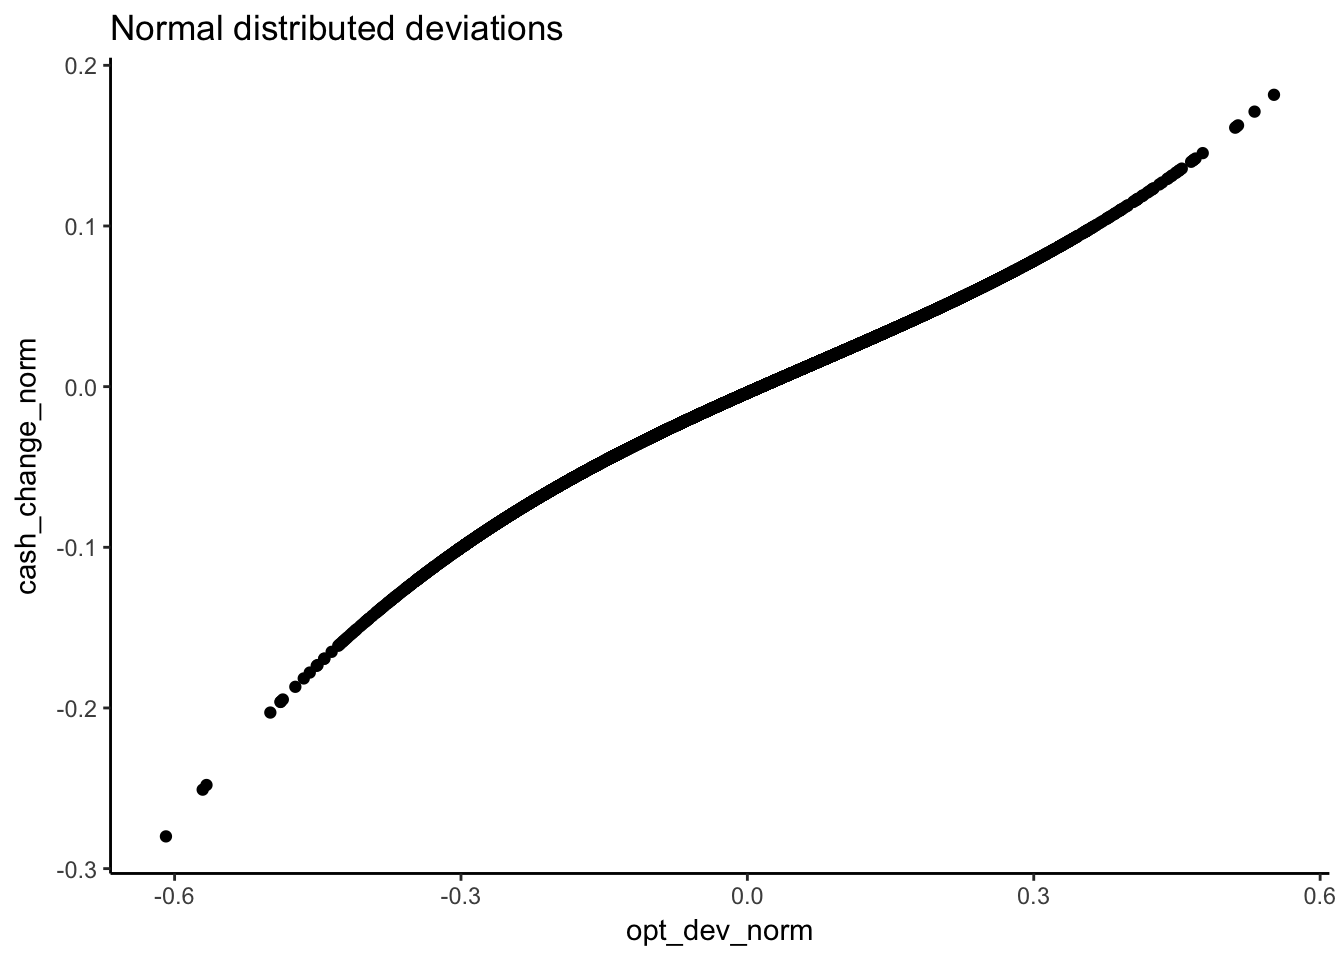
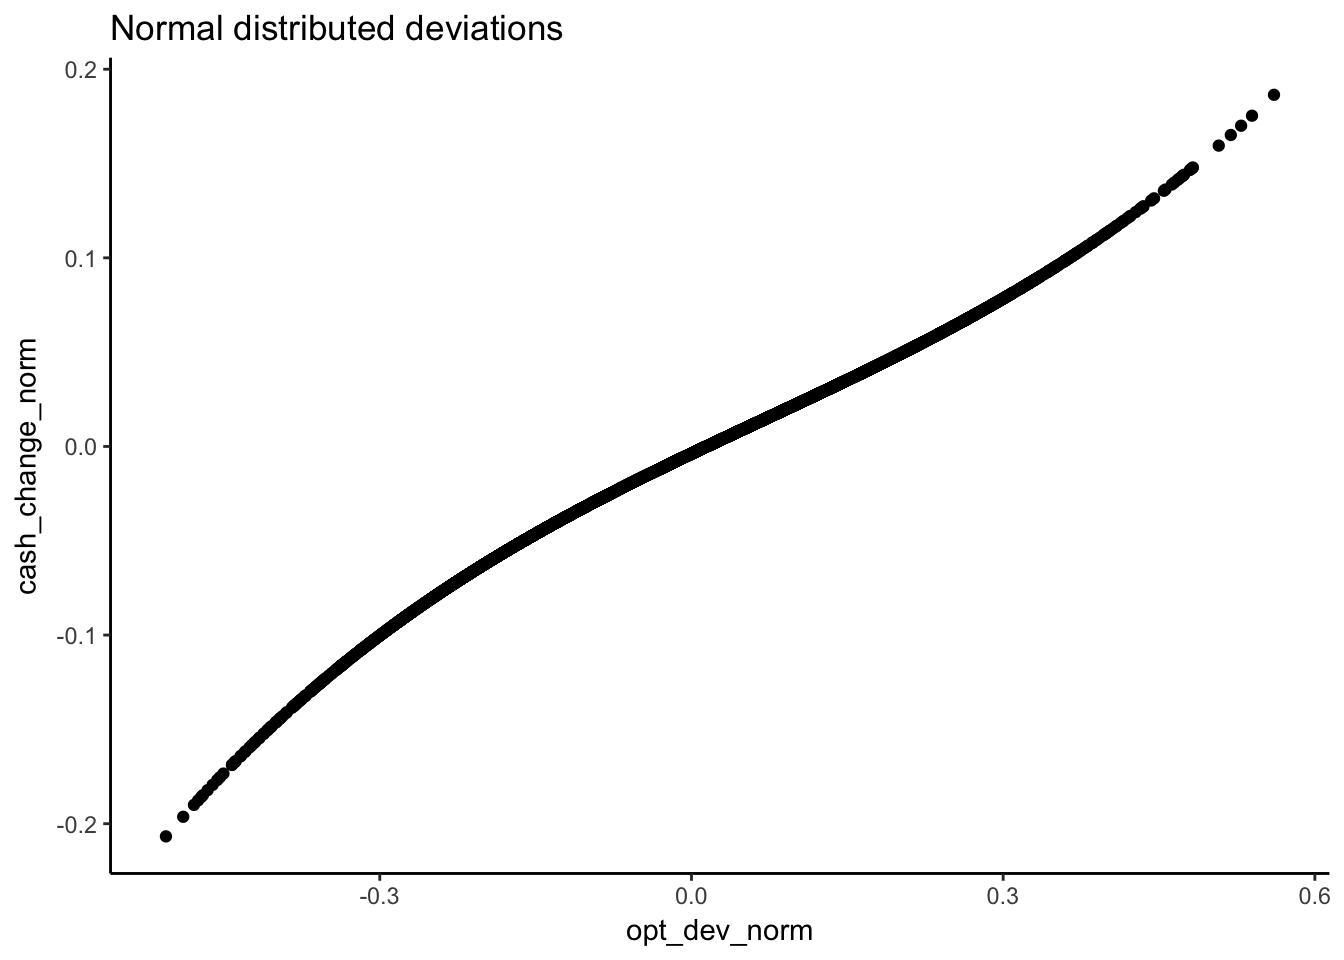
change in t-distribution to get sd approximately right.

diff --git a/content/post/2018-03-15-quadratic-and-cubic-terms-in-linear-models.html b/content/post/2018-03-15-quadratic-and-cubic-terms-in-linear-models.html
@@ -28,13 +28,13 @@ math: true
 <pre class="r"><code>mopt = -0.0026
 sdopt = 0.1488
 opt_dev_norm = rnorm(1e4, mopt, sdopt)
-opt_dev_t = rt(1e4, 3) * sdopt + mopt
+opt_dev_t = rt(1e4, df = 3) * sqrt(sdopt^2/3) + mopt
 round(quantile(opt_dev_norm, probs = c(0.75, 0.5, 0.25)), 2)</code></pre>
-<pre><code>##  75%  50%  25% 
-##  0.1  0.0 -0.1</code></pre>
+<pre><code>##   75%   50%   25% 
+##  0.09 -0.01 -0.11</code></pre>
 <pre class="r"><code>round(quantile(opt_dev_t, probs = c(0.75, 0.5, 0.25)), 2)</code></pre>
 <pre><code>##   75%   50%   25% 
-##  0.11  0.00 -0.12</code></pre>
+##  0.06  0.00 -0.07</code></pre>
 <pre class="r"><code>cash_change_norm = -0.0038 + 0.2633 * opt_dev_norm - 0.0790 * opt_dev_norm ^ 2 + 
   0.3827 * opt_dev_norm ^ 3
 normplot = qplot(x = opt_dev_norm, y = cash_change_norm) +
